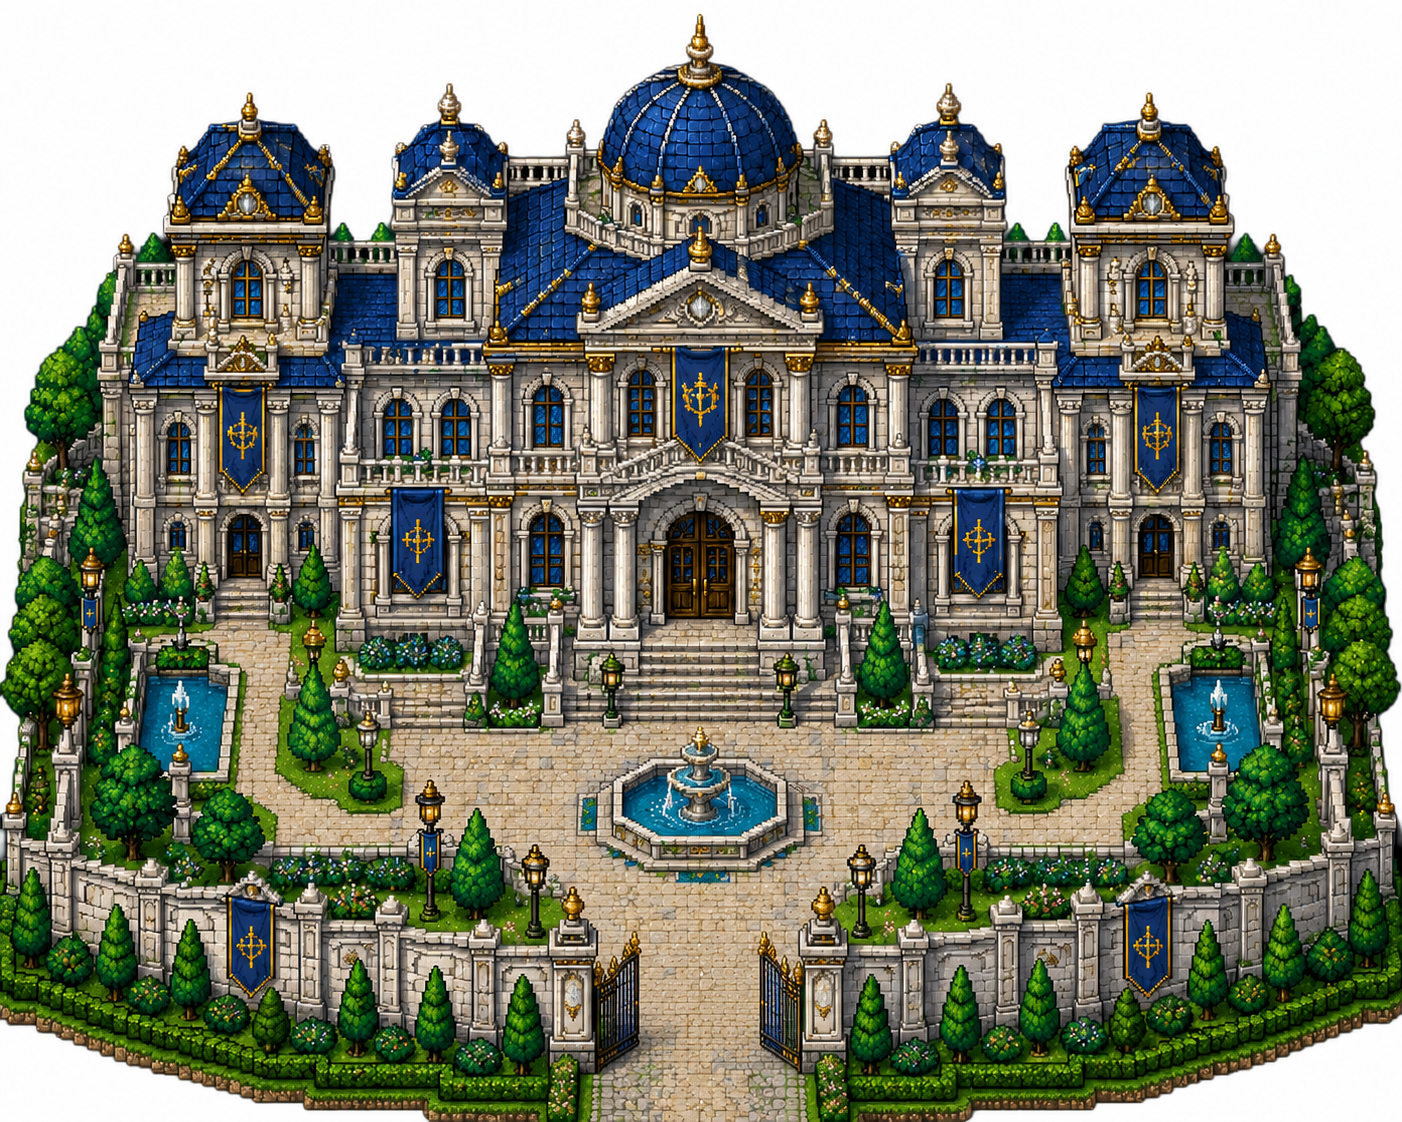
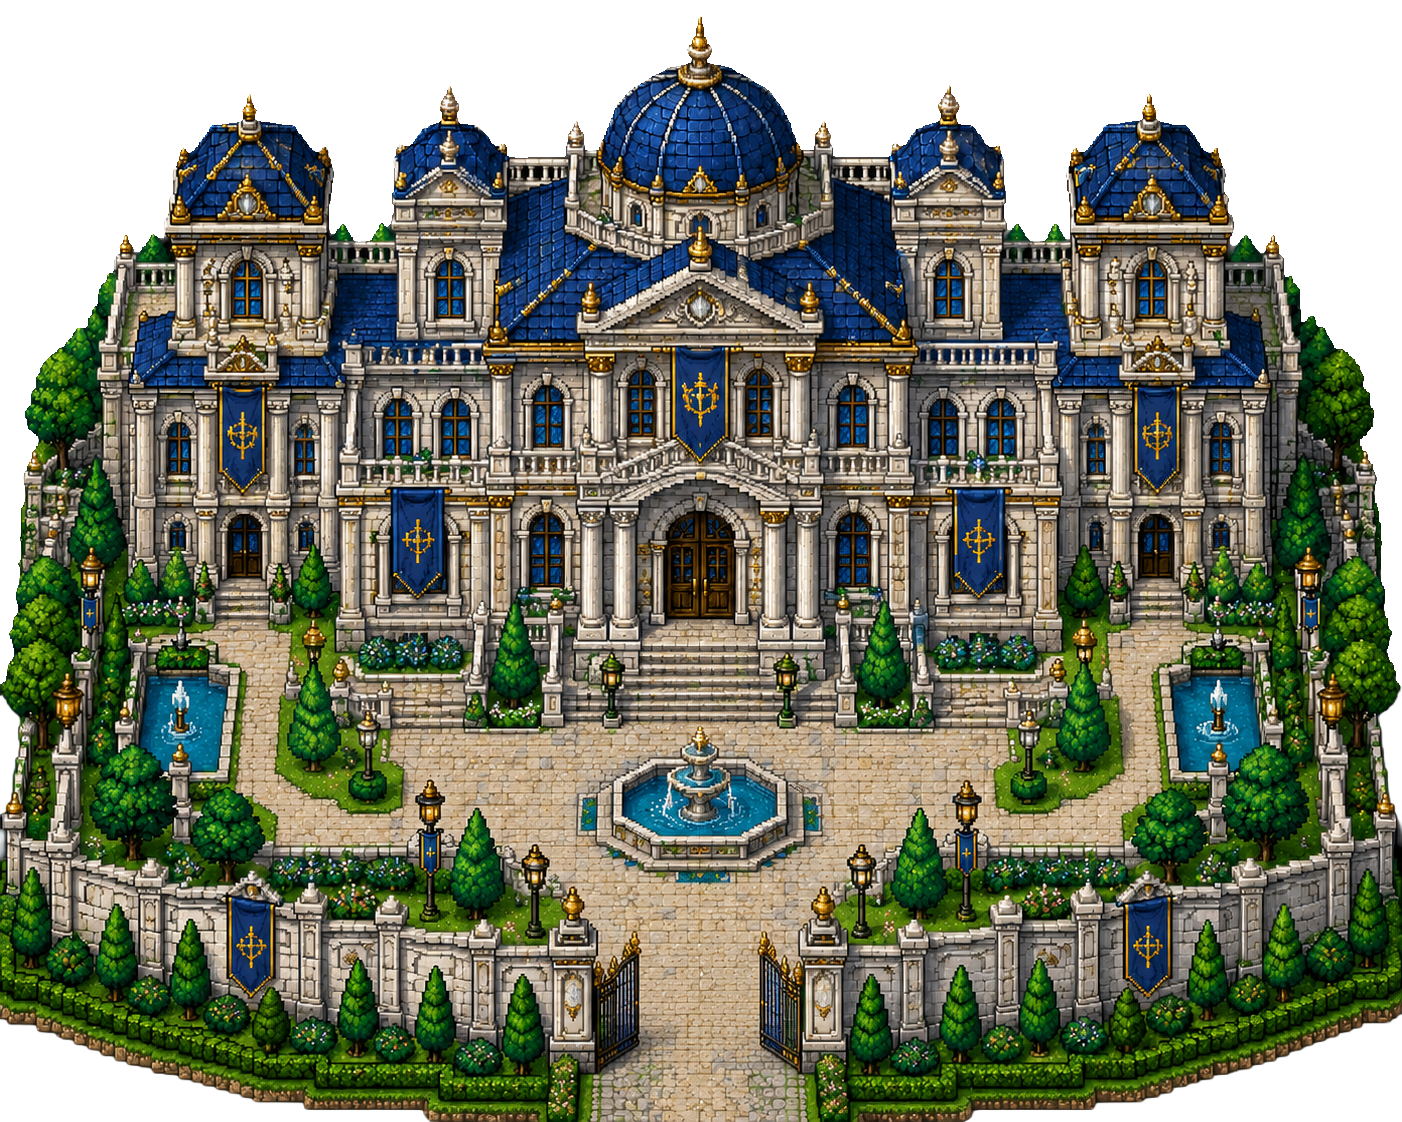
P4 Expedition: wire 4 new South Central NPCs (sister, elder, 2 merchants)
User dropped 4 new character portraits — Solia (green-haired sister),
Sage Vorenmoor (golden-cloak elder scholar), Marlea (basket-and-bonnet
baker), Talim (purple-turbaned caravan trader). All four wander South
Central using framesKey: 'player2Frames' (shared walk rig), with their
own portraits, displayName, archetype, bio, and 4-line cries pool.

Positions in the 40x40 southcentral grid:
  - Solia      (8,  14) — west-upper
  - Vorenmoor  (30, 16) — east-center
  - Marlea     (12, 30) — south-west
  - Talim      (28, 8)  — east-upper

No isEncounter flag set — these are peaceful wanderers. A-press near any
of them opens the existing NPC info/bio modal (same flow as Voltyran/
Eurakeon/Aurexion); the challenger_p2 in the same region is still the
only battle trigger.

Speed varied (28-42 px/s) and animFps spread (7-9) so the four NPCs
don't move in lockstep when on screen together.

Huge-house door PNGs (entry_hugehouseopen.png, entry_hugehouseopen2.png)
auto-update via the existing asset paths — no code change needed.

diff --git a/expedition.html b/expedition.html
@@ -4510,6 +4510,115 @@
           "I have outlived your kind.",
         ],
       },
+      // ===== South Central wanderers (June 2026) =====
+      // Four new peaceful NPCs sharing player2's walk rig (framesKey:
+      // 'player2Frames'). Each has its own portrait, displayName, bio, and
+      // cries pool. No `isEncounter` flag — they roam the wastes ambiently
+      // and open the bio modal on A-press, but don't trigger battles.
+      {
+        id: 'sister_solia',
+        framesKey: 'player2Frames',
+        walkOrder: WALK_ORDER,
+        x: 8 * 32, y: 14 * 32,
+        w: CHAR_W, h: CHAR_H,
+        speed: 38,
+        facing: 'down',
+        animFps: 8,
+        animTime: 0,
+        animFrame: 0,
+        currentDir: 'down',
+        dirTimer: 0,
+        region: 'southcentral',
+        displayName: 'Solia',
+        subtitle:    'Verdant Sister',
+        archetype:   'Wanderer · Kin',
+        bio:         "Solion's elder sister. Hair the colour of the deep grove, hands quick with vine and word. Walks the South Central wastes hunting what was taken from their lineage.",
+        portraitAsset: 'character_sister.png',
+        cries: [
+          'Brother — is that thee?',
+          'The wastes remember everything.',
+          'Walk softly here. The ground listens.',
+          'Vines outlast crowns.',
+        ],
+      },
+      {
+        id: 'elder_sage',
+        framesKey: 'player2Frames',
+        walkOrder: WALK_ORDER,
+        x: 30 * 32, y: 16 * 32,
+        w: CHAR_W, h: CHAR_H,
+        speed: 28,
+        facing: 'down',
+        animFps: 7,
+        animTime: 0,
+        animFrame: 0,
+        currentDir: 'down',
+        dirTimer: 0,
+        region: 'southcentral',
+        displayName: 'Sage Vorenmoor',
+        subtitle:    'Elder · Chronicler',
+        archetype:   'Wanderer · Sage',
+        bio:         'A traveling scholar carrying centuries of unrecorded history in his satchel. He stops in the South Central wastes to inscribe what the wind has not yet erased.',
+        portraitAsset: 'character_elder.png',
+        cries: [
+          'A new face — let me set down a name.',
+          'History walks with hurried boots today.',
+          'Mind the southern winds; they argue.',
+          'Every wanderer carries an unwritten chapter.',
+        ],
+      },
+      {
+        id: 'merchant_marlea',
+        framesKey: 'player2Frames',
+        walkOrder: WALK_ORDER,
+        x: 12 * 32, y: 30 * 32,
+        w: CHAR_W, h: CHAR_H,
+        speed: 36,
+        facing: 'down',
+        animFps: 8,
+        animTime: 0,
+        animFrame: 0,
+        currentDir: 'down',
+        dirTimer: 0,
+        region: 'southcentral',
+        displayName: 'Marlea',
+        subtitle:    'Merchant · Bread & Wares',
+        archetype:   'Trader · Upper Villages',
+        bio:         'A roving baker-merchant from the upper villages. Her basket carries hard cheese, hand bread, and rumors traded for coppers.',
+        portraitAsset: 'character_merchant1.png',
+        cries: [
+          'Fresh bread! Soft cheese! Half-true rumours!',
+          'A copper buys thee food, two buys a story.',
+          'Walk with me a stretch — the basket grows heavy.',
+          'I owe the south a loaf and a confession.',
+        ],
+      },
+      {
+        id: 'merchant_talim',
+        framesKey: 'player2Frames',
+        walkOrder: WALK_ORDER,
+        x: 28 * 32, y: 8 * 32,
+        w: CHAR_W, h: CHAR_H,
+        speed: 42,
+        facing: 'down',
+        animFps: 9,
+        animTime: 0,
+        animFrame: 0,
+        currentDir: 'down',
+        dirTimer: 0,
+        region: 'southcentral',
+        displayName: 'Talim',
+        subtitle:    'Merchant · Caravan',
+        archetype:   'Exotic Trader · Southern Ridges',
+        bio:         'A caravan trader from beyond the southern lava ridges. Carries small relics, scarab dust, and the kind of silver that does not tarnish.',
+        portraitAsset: 'character_merchant2.png',
+        cries: [
+          'Trinkets from the far ridges, friend.',
+          'My silver does not dim — try it.',
+          "A scarab's wing carries luck. Three coppers.",
+          'The caravan rests one day — speak now.',
+        ],
+      },
     ];
 
     // ============ UFO interaction (Aethryx Expanse gateway) ============